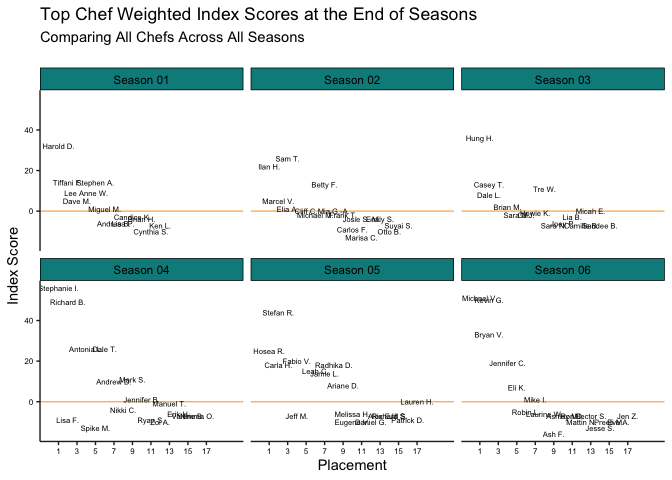
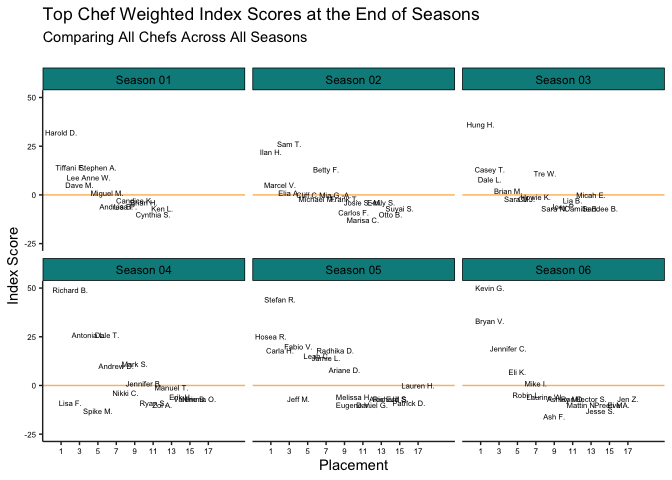
Make y axis same for all final index figures

diff --git a/README.md b/README.md
@@ -350,7 +350,17 @@ challenge wins/highs/lows, and the weighted index score.
 
 ##### 5.b.i. Visualizations
 
-![](README_files/figure-gfm/Viz_FinalIndex_Names-1.png)<!-- -->![](README_files/figure-gfm/Viz_FinalIndex_Names-2.png)<!-- -->![](README_files/figure-gfm/Viz_FinalIndex_Names-3.png)<!-- -->![](README_files/figure-gfm/Viz_FinalIndex_Names-4.png)<!-- -->
+    #> Warning: Removed 2 rows containing missing values (`geom_text()`).
+
+![](README_files/figure-gfm/Viz_FinalIndex_Names-1.png)<!-- -->
+
+    #> Warning: Removed 2 rows containing missing values (`geom_text()`).
+
+![](README_files/figure-gfm/Viz_FinalIndex_Names-2.png)<!-- -->
+
+    #> Warning: Removed 1 rows containing missing values (`geom_text()`).
+
+![](README_files/figure-gfm/Viz_FinalIndex_Names-3.png)<!-- -->![](README_files/figure-gfm/Viz_FinalIndex_Names-4.png)<!-- -->
 
 ##### 5.b.ii. Code
 
@@ -389,6 +399,7 @@ library(topChef); library(ggplot2); library(tidyverse)
       labs(title=paste0("Top Chef Weighted Index Scores at the End of Seasons")
            ,subtitle="Comparing All Chefs Across All Seasons\n")+
       ylab("Index Score") + xlab("Placement") +
+      scale_y_continuous(lim=c(-25,50)) +
       scale_x_continuous(lim=c(0,20),breaks=seq(1,18,2),labels = seq(1,18,2)) +
       theme(panel.grid = element_blank() 
             ,axis.text.x=element_text(size=6,color="black")
@@ -407,6 +418,7 @@ library(topChef); library(ggplot2); library(tidyverse)
         geom_text(hjust=0.5,size=2) +
       theme_minimal() +
       ylab("Index score") + xlab("Placement") +
+      scale_y_continuous(lim=c(-25,50)) +
       scale_x_continuous(lim=c(0,20),breaks=seq(1,18,2),labels = seq(1,18,2)) +
       theme(panel.grid = element_blank() 
             ,axis.text.x=element_text(size=6,color="black")
@@ -424,6 +436,7 @@ library(topChef); library(ggplot2); library(tidyverse)
         geom_text(hjust=0.5,size=2) +
         theme_minimal() +
         ylab("Index Score") + xlab("Placement") +
+        scale_y_continuous(lim=c(-25,50)) +
         scale_x_continuous(lim=c(0,20),breaks=seq(1,18,2),labels = seq(1,18,2)) +
         theme(panel.grid = element_blank() 
               ,axis.text.x=element_text(size=6,color="black")
